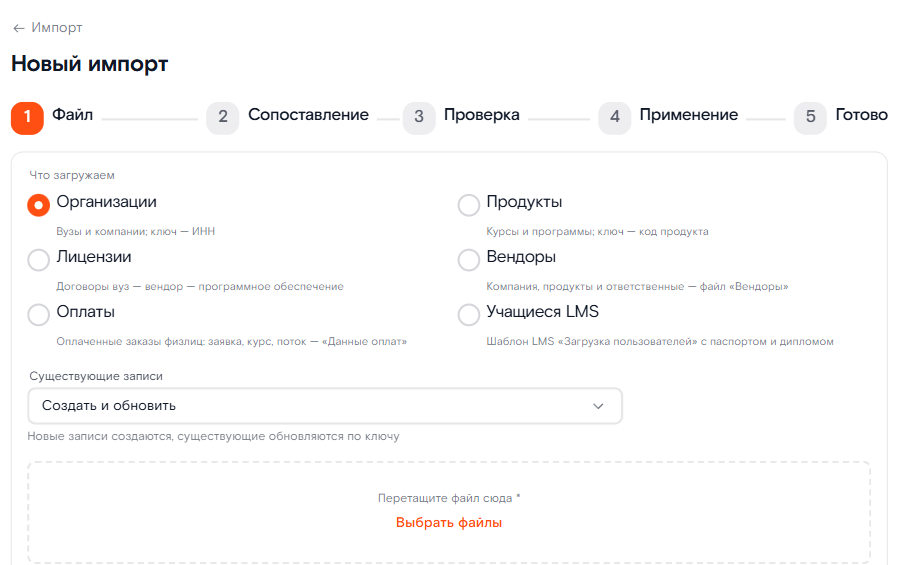
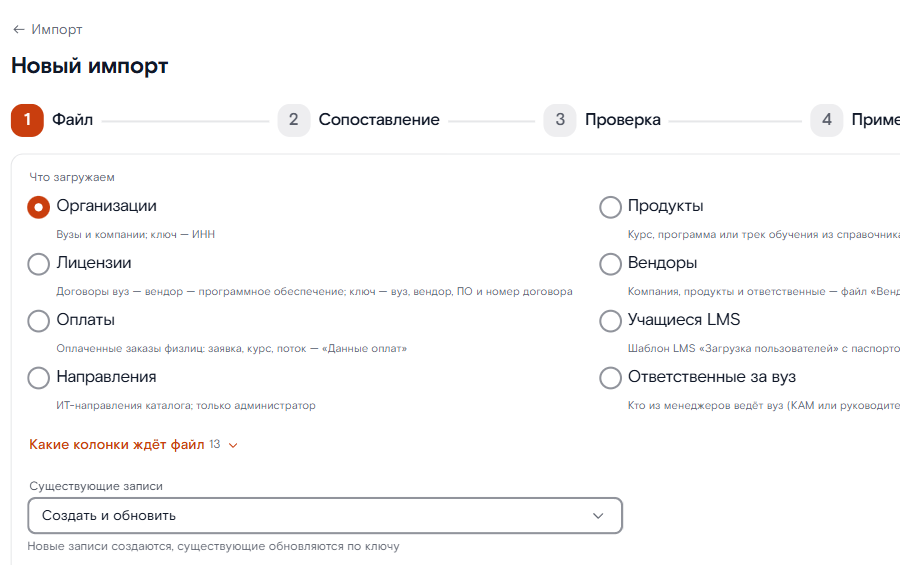
feat(F6): справка под main — интеграции F5 (забрать сейчас, поля заявки, маршрут, webhook-подписки, ключи API), приглашение с паролем на странице /invite, импорт (шаблоны xlsx/xls, сводка проверки, замечания строк), инциденты ПДн и состояние защиты в руководстве администратора, главы аудитора и адми

diff --git a/src/lib/content/help/10-integrations.md b/src/lib/content/help/10-integrations.md
@@ -1,19 +1,80 @@
 # Интеграции
 
-Раздел «Интеграции» (меню «Настройка», для администратора) показывает, с чем CRM обменивается данными и что именно ушло и пришло.
+Раздел «Интеграции» (меню «Настройка») показывает, с чем CRM обменивается данными, и позволяет настроить обмен без правки конфигурации сервера. Работать с ним может только администратор (право `integration:admin`); остальные при открытии страницы видят пояснение, что раздел доступен администратору. Наверху страницы вкладки: «Источники», «Подписки», «Ключи API», «Исходящие», «Входящие» и «Связи». Над ними всегда видно состояние системы: база данных, Redis, Keycloak, файловое хранилище и очередь задач; кнопка «Проверить сейчас» запрашивает состояние заново.
 
 ![Источники: Bitrix24, сайт и LMS с переключателем «Активен», сверху — состояние систем](/help/integrations-sources.png)
 
-**Источники.** Три карточки: Bitrix24, сайт (CMS) и LMS. Переключатель «Активен» включает источник, выключение спрашивает подтверждение. Плашки сверху — состояние базы, Redis, Keycloak, файлового хранилища и очереди задач. В настройках источника есть «паспорт»: адрес приёма, заголовки и пример запроса.
+## Источники
 
-**Сайт и LMS → CRM.** Заявки с сайта и прогресс обучения из LMS приходят по API в JSON: это публичные вебхуки, каждый запрос подписан секретом (HMAC). Секрет хранится только на сервере и в браузер не попадает, поэтому «тестовой отправки» с экрана нет. Принятое видно на вкладке «Входящие»: чей вызов, верна ли подпись, к какой записи привёл.
+Три карточки: Bitrix24, сайт (CMS) и LMS. В карточке:
 
-**CRM → Bitrix24.** Создание и смена статуса сделки записываются в очередь исходящих событий в той же транзакции, что и сама сделка, поэтому событие не пропадёт, даже если Битрикс24 недоступен. Фоновый воркер раз в минуту разбирает очередь и отправляет сделку на портал. При сбое отправка повторяется с нарастающей паузой (1 с, 5 с, 30 с, 5 мин, 30 мин, 2 ч); после восьми неудач событие получает статус «Не доставлено». Какой сделке CRM соответствует какая сделка Битрикс24, видно на вкладке «Связи»; если запись на портале изменили позже последней синхронизации, система замечает конфликт, а не затирает чужую правку.
+- переключатель «Активен» включает или выключает источник; выключение спрашивает подтверждение и объясняет, что перестанет работать;
+- адрес, тип авторизации и, у сайта и LMS, расписание забора: «каждые N мин» или «только вручную»;
+- «Входящие» — время последнего сообщения от источника; «Курсор» — до какого момента CRM уже прочитала данные источника (его можно скопировать);
+- плашка «Последний забор»: «Успешно», «Частично» или «Ошибка», время, как запущен (вручную или по расписанию) и счётчики «получено», «создано» (у LMS «применено»), «дубликатов», «пропущено», «с ошибкой». Если часть записей не принята, под плашкой подсказка: причины смотрите во «Входящих» со статусом «Ошибка»; последняя ошибка источника показана красной плашкой с кнопкой «Журнал».
 
-![Исходящие события: DEAL_CREATED в bitrix24 — «Отправлено»; события, пока источник был выключен, — «Не доставлено»](/help/integrations-outbox.png)
+Шестерёнка «Настроить источник» открывает окно настройки: название, адрес, авторизация, «Ссылка на секрет» (имя переменной окружения на сервере, сам секрет в базе не хранится), у сайта и LMS — «Забор по расписанию» (переключатель «Забирать автоматически» и «Раз в … минут», от 1 до 1440), блок «Подпись входящих запросов» (имя переменной секрета подписи и переключатель «Требовать метку времени X-Timestamp») и свёрнутый блок «Как подключить» с адресом вебхука, заголовками и готовым примером запроса `curl`. Самого секрета в окне нет.
+
+### Забрать сейчас
+
+Кнопка в карточке сайта и LMS ставит запрос на забор в очередь; воркер подхватывает его на ближайшем цикле (до минуты), после чего в карточке появляется итог. Пока забор идёт, кнопка называется «Забираем…», а плашка показывает «Идёт». Кнопка недоступна, если источник отключён, если запрос уже стоит в очереди (его мог поставить другой администратор) и у Bitrix24: он присылает события сам, забирать нечего. Если за две минуты итога нет, CRM сообщает, что забор ещё идёт, и итог появится в карточке, когда он завершится. Если сервер не принял запрос (например, он уже выполняется или поставлен слишком часто), причина показывается в уведомлении.
+
+### Поля заявки (сайт)
+
+У карточки сайта есть строка «Поля» и кнопка «Изменить»: какие ключи запроса сайта в какие поля CRM ложатся. Пока правил нет, работают встроенные названия (английские и русские). В окне «Поля заявки»:
+
+- «Что делать с остальными ключами запроса»: «Только перечисленные поля» или «Перечисленные и встроенные названия»;
+- правила: «Поле CRM» (в том числе «Своё поле сделки…»), «Ключ в запросе», «Преобразование» (как есть, убрать пробелы, нижний или верхний регистр, заменить значения, вставить в шаблон со словом `{value}`, склеить несколько полей, постоянное значение), «Если ключа нет или пусто» и переключатель «Обязательное: без значения заявка отклоняется». Правила можно двигать «Выше» и «Ниже»; два правила на одно поле работают по очереди;
+- «Пример запроса» и блок «Что получится»: сервер разбирает пример по текущим правилам и показывает, какие поля заполнятся, найден ли продукт и что было бы отклонено. Пример можно вставить типовой («Вставить типовой») или взять реальную заявку с сайта («Взять с сайта»; телефон и почта скрыты). Ничего при этом не создаётся и не сохраняется;
+- без правила для email или телефона сервер правила не сохранит: заявка без контакта отклоняется. «Вернуть встроенное» удаляет настроенные правила; если другой администратор сохранил поля раньше вас, CRM спросит, перезаписать ли его версию. Если источник включён, сохранение подтверждается: новые правила действуют сразу.
+
+### Куда попадают заявки (сайт)
+
+Строка «Заявки» и кнопка «Изменить» открывают окно «Куда попадают заявки». Без настройки заявка с сайта становится сделкой B2C в воронке по умолчанию. В окне:
+
+- «По умолчанию»: «Тип сделки» (B2C или B2B), «Воронка» (только опубликованные воронки этого типа), «Статус новой заявки» (если не выбран, начальный статус воронки) и «Кто ведёт заявку»: менеджер с наименьшей нагрузкой, ответственный за вуз или конкретный менеджер;
+- «Правила»: до десяти правил вида «если поле заявки равно (или одно из) значение, то заявка идёт по такому маршруту»; срабатывает первое подходящее. Так заявки вузов можно направить в B2B;
+- «Вернуть прежнее» удаляет маршрут и правила. Если выбранная воронка потом снята с публикации, в карточке появляется метка «Воронка недоступна», а заявки идут в воронку по умолчанию. Нужной воронки нет: создайте её в разделе «Воронки».
+
+### Сайт и LMS → CRM
+
+Заявки с сайта и прогресс обучения из LMS приходят по API в JSON: это публичные вебхуки, каждый запрос подписан секретом (HMAC-SHA256 по телу). Если включён «X-Timestamp», подписывается строка «метка.тело», допуск по времени 5 минут. Секрет хранится только на сервере, поэтому «тестовой отправки» с экрана нет: готовую команду для терминала даёт блок «Как подключить». Заявка с сайта создаёт сделку; прогресс LMS привязывается к существующей сделке, новых сделок по нему не создаётся. Принятое видно на вкладке «Входящие».
+
+### CRM → Bitrix24
+
+Создание и смена статуса сделки записываются в очередь исходящих событий в той же транзакции, что и сама сделка, поэтому событие не пропадёт, даже если Битрикс24 недоступен. Фоновый воркер раз в минуту разбирает очередь и отправляет сделку на портал. При сбое отправка повторяется с нарастающей паузой (1 с, 5 с, 30 с, 5 мин, 30 мин, 2 ч); после восьми неудач событие получает статус «Не доставлено». Какой сделке CRM соответствует какая сделка Битрикс24, видно на вкладке «Связи»; если запись на портале изменили позже последней синхронизации, система замечает конфликт, а не затирает чужую правку.
 
 **Как включить доставку.** Нужны четыре вещи: источник «Bitrix24» с включённым «Активен», адрес входящего вебхука портала в конфигурации сервера, включённый коннектор и флаг функции `bitrix_connector` в «Настройках». Секрет вебхука (он часть адреса) в базе не хранится: там только имя переменной окружения.
 
 **Проверено на живом портале.** 25.09.2026 сделка, созданная в CRM, появилась на портале компании, сработал и робот-уведомление в Битрикс24. Ход проверки со схемой, логами воркера и записями в базе — в README клиента, раздел «Интеграция с Битрикс24».
 
-**Чего нет.** Входящий поток Битрикс24 принимается по упрощённому контракту, а не по настоящим событиям портала. Событие «Не доставлено» администратор возвращает в очередь кнопкой «Повторить доставку» на вкладке «Исходящие». Telegram не подключён, а почта работает только при настроенном почтовом сервере (см. «Задачи, уведомления, профиль»).
+## Подписки на события (webhook)
+
+Вкладка «Подписки» отдаёт события CRM во внешнюю систему. Таблица: «Название», «Адрес», «События», «Неудач подряд» и переключатель «Активна»; если сервер сам выключил подписку, рядом метка «Выключена» с причиной в подсказке. Кнопка «Новая подписка» открывает окно:
+
+- «Название», «Адрес» (в боевом режиме только `https://`, внутренние адреса сервер отклоняет) и «События»: «Сделка создана», «Статус сделки изменён», «Документ подписан», «Зачисление в LMS отправлено», «Запрошен перевод на обучение»; нужно выбрать хотя бы одно;
+- свёрнутый блок «Фильтры по содержимому события»: JSON вида `{ "deal_type": "b2c" }`, не больше десяти полей. Подписка получит событие, только если поле равно значению; пусто означает любое событие из списка;
+- при создании CRM один раз показывает «Секрет подписи»: сохраните его и передайте принимающей системе, потом он недоступен. Потерянный секрет не восстановить: кнопка «Сменить секрет» выпускает новый, прежний перестаёт действовать сразу;
+- «Отправить тестовое событие» шлёт подписанное событие PING сразу и показывает код ответа и время; в журнал доставок оно не попадает;
+- «Журнал доставок» открывает панель со статусом («Ожидает», «Отправлено», «Ошибка, будет повтор», «Не доставлено»), числом попыток, временем и причиной ошибки по-русски; есть фильтр по статусу, а у неудачной доставки кнопка «Повторить доставку»;
+- блок «Как принять события» — заголовки, тело запроса и готовый код проверки подписи на Python и Node.js.
+
+Правила доставки: получатель должен ответить кодом 2xx быстрее чем за 10 секунд; повторы идут через 1 с, 5 с, 30 с, 5 мин, 30 мин и 2 ч, после восьми неудач событие получает статус «Не доставлено». Ответ 410 выключает подписку сразу, 20 недоставленных событий подряд тоже её выключают; включив подписку снова, вы сбрасываете счётчик неудач. Подпись считается по сырому телу запроса, в заголовках приходят `X-CRM-Delivery`, `X-Timestamp` и `X-Signature`. Одно событие может прийти дважды, поэтому принимающей системе стоит опираться на `X-CRM-Delivery`. «Удалить» убирает подписку вместе с очередью её доставок.
+
+## Ключи API
+
+Вкладка «Ключи API» выпускает ключи для внешних систем, которые вызывают CRM без входа через Keycloak. Система передаёт ключ в заголовке `X-API-Key` и действует с правами роли «Интеграция»: создавать сделки и контакты, переводить сделки по статусам, читать организации и принимать данные внешних систем. Таблица: «Название», «Учётка», «Начало ключа», «Использован», «Действует до» и «Состояние» («Действует», «Истёк», «Отозван»).
+
+«Выпустить ключ»: «Название» (например, «сайт»), «Служебная учётка» (активный пользователь с ролью «Интеграция»; если такого нет, окно предложит сначала создать его в разделе «Пользователи») и «Срок действия, дней» (по умолчанию 90, от 1 до 365). Ключ показывается один раз вместе с примером вызова; после кнопки «Я сохранил» виден только его начало. «Отозвать» (с подтверждением) прекращает действие ключа сразу, вернуть его нельзя: выпустите новый.
+
+## Журналы
+
+- **Исходящие.** События, которые CRM отправляет во внешние системы: событие, куда, статус, число попыток, время и причина ошибки. Фильтр по статусу; у неудачной доставки кнопка «Повторить доставку» возвращает её в очередь.
+- **Входящие.** Сообщения, которые внешние системы прислали в CRM: когда, источник, верна ли подпись, статус («Получено», «Обработано», «Ошибка», «Дубликат») и результат со ссылкой на созданную сделку или контакт. Журнал только для просмотра; есть фильтр по источнику.
+- **Связи.** Соответствие записей CRM (сделки, организации, контакты) записям во внешних системах: версия и время синхронизации. Создаются автоматически при обмене.
+
+![Исходящие события: DEAL_CREATED в bitrix24 — «Отправлено»; события, пока источник был выключен, — «Не доставлено»](/help/integrations-outbox.png)
+
+## Чего нет
+
+Входящий поток Битрикс24 принимается по упрощённому контракту, а не по настоящим событиям портала. Telegram не подключён, а почта работает только при настроенном почтовом сервере (см. «Задачи, уведомления, профиль»).

diff --git a/src/lib/content/help/21-role-admin.md b/src/lib/content/help/21-role-admin.md
@@ -4,13 +4,13 @@
 
 ## Что вы видите
 
-В боковом меню все разделы: «Главная», «Сделки», «Организации», «Лицензии», «Контакты», «Доступ к вузам», «Задачи», «Подписание», «Отчёты», «Импорт» и «Справка»; в разделе «Настройка» — «Воронки», «Справочники», «Интеграции», «Реестр ЕГРЮЛ», «Соглашения ЭДО» и «Шаблоны уведомлений»; в разделе «Администрирование» — «Пользователи», «Команды», «Согласования», «Удаление ПДн», «Журнал аудита» и «Настройки».
+В боковом меню все разделы: «Главная», «Сделки», «Организации», «Лицензии», «Контакты», «Доступ к вузам», «Задачи», «Подписание», «Отчёты», «Импорт» и «Справка»; в разделе «Настройка» — «Воронки», «Справочники», «Интеграции», «Реестр ЕГРЮЛ», «Соглашения ЭДО» и «Шаблоны уведомлений»; в разделе «Администрирование» — «Пользователи», «Команды», «Согласования», «Удаление ПДн», «Журнал аудита», «События безопасности», «Инциденты ПДн» и «Настройки».
 
 Область данных — все данные системы.
 
 ## Что вы можете и чего нет
 
-Можете всё, что руководитель, и сверх того: управлять пользователями, командами и настройками; публиковать воронки; вести справочники, соглашения об ЭДО, реестр ЕГРЮЛ, шаблоны уведомлений; подключать источники интеграций; обрабатывать запросы на удаление персональных данных; читать и выгружать журнал аудита.
+Можете всё, что руководитель, и сверх того: управлять пользователями, командами и настройками; публиковать воронки; вести справочники, соглашения об ЭДО, реестр ЕГРЮЛ, шаблоны уведомлений; подключать источники интеграций; обрабатывать запросы на удаление персональных данных; читать и выгружать журнал аудита; смотреть события безопасности и состояние защиты; вести инциденты с персональными данными и готовить уведомления Роскомнадзора.
 
 Ограничение «четырёх глаз»: создать администратора и выполнить запрос на удаление персональных данных можно только с подтверждением другого администратора (раздел «Согласования»). Один администратор подтвердить собственную заявку не может (код [`CRM-1902`](?s=errors#h-crm-1902)); поэтому администраторов должно быть минимум двое. Последнего администратора заблокировать или удалить нельзя (`CRM-1903`).
 
@@ -21,7 +21,9 @@
 1. Откройте «Пользователи» и нажмите «Новый сотрудник».
 2. Заполните «Фамилия и имя» и «Email», выберите «Роль». Для руководителя укажите «Команду»; блок «Команда», «Руководитель», «Должность» и переключатель «Требовать второй фактор (TOTP)» раскрывается ниже (для администратора и руководителя второй фактор включается всегда).
 3. Нажмите «Создать». Если создаёте администратора, заявка уйдёт на подтверждение второму администратору (раздел «Согласования»).
-4. В окне «Приглашение готово» скопируйте ссылку («Копировать ссылку») и передайте сотруднику. Если в Keycloak настроена почта, письмо уйдёт само. Повторно отправить приглашение можно в карточке пользователя кнопкой «Отправить приглашение повторно».
+4. В окне «Приглашение готово» видно, ушло ли письмо (чип «Письмо передано почтовому серверу» или «Письмо не отправлено»), и одноразовая ссылка с кнопкой «Копировать ссылку». Ссылка показывается один раз и действует до указанного в окне срока. Передайте её сотруднику, если письмо не ушло.
+5. Сотрудник открывает ссылку (страница «Вас пригласили в CRM»), видит своё имя, замаскированную почту и срок действия, задаёт пароль дважды и нажимает «Задать пароль». Затем «Войти» ведёт на обычный вход. Почта Keycloak для этого не нужна: пароль задаёт сама CRM.
+6. Если ссылка потерялась, истекла или уже использована, в карточке пользователя со статусом «Приглашён» нажмите «Выдать новую ссылку-приглашение». Сервер выдаёт её не чаще раза в 5 минут и не более 5 раз в сутки.
 
 Подробнее о почте и первом входе — руководство администратора, глава «Keycloak и пользователи».
 
@@ -31,7 +33,7 @@
 
 1. «Команды» → «Новая команда»: «Название», «Родительская команда», «Руководитель», «Регион». Иерархия команд определяет, какие сделки видит руководитель.
 2. В карточке пользователя нажмите «Изменить», чтобы поменять команду, руководителя, должность.
-3. Кнопка «Заблокировать» завершает все сессии сотрудника сразу, вход станет недоступен; «Разблокировать» возвращает доступ. «Сбросить пароль» завершает сессии и отправляет сотруднику ссылку на установку нового пароля (письмо уйдёт, если настроена почта Keycloak).
+3. Кнопка «Заблокировать» завершает все сессии сотрудника сразу, вход станет недоступен; «Разблокировать» возвращает доступ. «Сбросить пароль» завершает сессии и выдаёт сотруднику ссылку на установку нового пароля: если письмо не ушло, откроется окно «Ссылка для нового пароля» со ссылкой, которую нужно передать самому (она показывается один раз).
 4. Для увольнения нажмите «Передать дела и уволить»: мастер покажет, что держит сотрудник, и распределит сделки и вузы.
 
 ### 3. Опубликовать воронку
@@ -71,7 +73,16 @@
 2. Секретные значения показываются маской: чтобы изменить, введите «Новое значение секрета».
 3. Сохраните. Некоторые настройки требуют ключа шифрования на сервере (`SETTINGS_ENCRYPTION_KEY`, руководство администратора, глава «Переменные .env и секреты»).
 
-### 8. Перейти к эксплуатации сервера
+### 8. Проверить состояние защиты и провести инцидент ПДн
+
+1. Откройте «События безопасности» и вкладку «Состояние защиты»: панель показывает, включены ли второй фактор у администраторов и руководителей, режим входа по токену, проверка файлов антивирусом, подпись журнала аудита, шифрование персональных полей и четыре настройки Keycloak. Рядом с каждой мерой короткое пояснение, что делать; красным помечено «не включено или опасно», жёлтым «стоит усилить». В демо-режиме часть мер выключена намеренно.
+2. Если система или вы заподозрили утечку, откройте «Инциденты ПДн»: кандидатов заводит система по событиям безопасности, утечку можно завести и вручную кнопкой «Завести инцидент».
+3. Откройте карточку кандидата и нажмите «Подтвердить инцидент»: укажите, когда выявили, ответственного, затронутые данные и принятые меры. С этого момента идут сроки: 24 часа на уведомление Роскомнадзора и 72 часа на итоги расследования. Если утечки не было, нажмите «Отклонить кандидата».
+4. «Сформировать уведомление 24 часа» готовит текст и PDF, «Отметить подачу · 24 часа» записывает номер или ссылку подачи на портале (само уведомление подаёте вы на портале Роскомнадзора). Потом так же для 72 часов, затем «Закрыть инцидент».
+
+Подробнее — руководство администратора, глава [«Безопасность и аудит»](?s=admin-security#h-sostoyanie-zashchity).
+
+### 9. Перейти к эксплуатации сервера
 
 Установка, обновление, резервные копии, мониторинг и безопасность сервера описаны в разделе «Руководство администратора» этой справки: начните с главы [«Обзор и требования»](?s=admin-overview) и [«Чек-листа ввода в эксплуатацию»](?s=admin-checklist).
 

diff --git a/src/lib/content/help/05-import.md b/src/lib/content/help/05-import.md
@@ -1,10 +1,47 @@
 # Импорт
 
-Импорт загружает справочники и списки из файла: организации, продукты, лицензии, вендоров и другое. Раздел доступен руководителю и администратору.
-
-**Как идёт импорт.** Файл (.xlsx, .xls, .csv, до 50 МБ) проходит по шагам: загрузка → сопоставление колонок → пробный прогон с отчётом об ошибках → применение. Сопоставление можно сохранить пресетом, автоподбор колонок предлагает совпадения сам. Строки с ошибками пропускаются, весь импорт не падает; применённый импорт можно откатить.
+Импорт загружает справочники и списки из файла: организации, продукты, лицензии, вендоров, оплаты, учащихся LMS и другое. Раздел «Импорт» доступен руководителю и администратору. Список прошлых заданий показывает, что загружали, статус, число строк (без замечаний, с предупреждениями, с ошибками), кто и когда; кнопка «Новый импорт» запускает мастер.
 
 ![Первый шаг мастера: что загружаем, что делать с уже существующими записями, файл](/help/import-wizard.png)
+
+## Что можно загрузить
+
+| Тип | Что это | Как система узнаёт запись (на шаге сопоставления это написано в подсказке «Как система узнаёт запись») |
+| --- | --- | --- |
+| Организации | вузы и компании | по ИНН |
+| Продукты | курсы и ИТ-продукты | по коду продукта |
+| Лицензии | договоры вуз — вендор — программное обеспечение | по сочетанию: вуз (по точному названию), вендор, ПО и номер договора |
+| Вендоры | компания, продукты и ответственные | — |
+| Оплаты | оплаченные заказы физлиц: заявка, курс, поток (выгрузка «Данные оплат») | — |
+| Учащиеся LMS | шаблон LMS «Загрузка пользователей» | — |
+| Направления | ИТ-направления каталога; только администратор | по коду; если кода нет, он строится из названия |
+| Ответственные за вуз | какой менеджер (КАМ или руководитель) ведёт вуз; только администратор | вуз ищется по ИНН или названию, менеджер по почте или ФИО; меняется только тот, кто ведёт вуз, новые вузы не создаются |
+
+Руководителю типы «только администратор» показаны, но недоступны.
+
+## Мастер по шагам
+
+Шаги: «Файл» → «Сопоставление» → «Проверка» → «Применение» → «Готово».
+
+1. **Файл.** Выберите «Что загружаем», режим «Существующие записи» («Создать и обновить», «Только создать» или «Только обновить»; в последнем строки без существующей записи считаются ошибкой) и файл: Excel (.xlsx, .xls), CSV или JSON, до 50 МБ. Блок «Какие колонки ждёт файл» перечисляет колонки выбранного типа, отмечает «Обязательная» и подсказывает, как записать значение (например, даты ДД.ММ.ГГГГ или ГГГГ-ММ-ДД, ИНН из 10 или 12 цифр). Там же кнопки «Скачать шаблон .xlsx» и «Скачать шаблон .xls»: в шаблоне заголовки, две учебные строки (замените их своими данными) и лист «Инструкция» с допустимыми значениями; выпадающие списки есть только в .xlsx.
+2. **Сопоставление.** Для каждой колонки файла выберите «Поле системы» или оставьте «Не импортировать». Система подбирает колонки сама, можно применить пресет (встроенный или свой) и сохранить свой кнопкой «Сохранить как пресет». «Параметры чтения файла» раскрываются для книг Excel: «Лист» (скрытые помечены), «Загрузить все листы книги» (колонки на листах должны называться одинаково, предпросмотр идёт по первому листу), «Строка с названиями колонок» (если заголовки не в первой строке, мастер сам подсказывает, например «Взять строку 3»), «Заполнять пустые ячейки значением сверху» (для файлов, где вуз или вендор записан один раз на несколько строк, то есть в объединённых ячейках) и переключатели «Создавать вендоров, которых нет в справочнике», «Создавать программы (ПО)…», «Создавать вузы…» (иначе строка с неизвестным вузом получает ошибку). Пока не сопоставлены обязательные поля, кнопка «Далее» недоступна, а над таблицей сказано, чего не хватает. Если названия колонок в файле повторяются, мастер предупредит: значения берутся из последней такой колонки.
+3. **Проверка.** Пробный прогон ничего не записывает. Плитки сверху: «Без замечаний», «С предупреждениями», «С ошибками» и «Всего строк в файле». Ниже сводка: что будет создано, обновлено и пропущено («Будет создано: 3 лицензии»), и список «Что нашли в файле»: замечание, число строк и номера примеров. Кнопка «Показать» оставляет в таблице только строки с этим замечанием, «Показать все» возвращает полный список. «Отчёт об ошибках» выгружает файл с ошибочными строками.
+4. **Применение.** Кнопка «Применить N строк» запускается, только если есть что применять. Строки с ошибками пропускаются, остальные загружаются; страницу можно не закрывать, ход обновляется сам.
+5. **Готово.** Итог: «Загружено», «Из них с предупреждениями», «Пропущено», сводка «Создано / Обновлено / Пропущено» и замечания по файлу. «Отчёт .xlsx» выгружает результат по строкам; «Открыть: …» ведёт к загруженным записям (организации, контакты, сделки и так далее).
+
+Если закрыть мастер на середине, задание остаётся в списке, а на его странице кнопка «Продолжить» возвращает к нужному шагу.
+
+## Замечания по строкам
+
+В таблице «Строки файла» вкладки «Ошибки», «Предупреждения» и «Все». Колонки: «Строка» (номер как в Excel, для книг с несколькими листами с названием листа), «Статус», «Запись» и «Замечания». У каждого замечания есть пояснение, что делать: например, «Вуз ищется по точному названию в справочнике организаций. Проверьте написание или заведите организацию» (со ссылкой на «Организации»), допустимые значения статуса передачи, подписания и срока лицензии. Статусы строки: «Без замечаний», «Предупреждение» (применится, но прочитайте замечание), «Ошибка» (не применится, пока не исправите её в файле и не загрузите файл заново), «Пропущена», «Откачена», «Откат заблокирован» (к созданной записи уже привязаны другие данные, например сделка).
+
+## Статусы задания
+
+«Файл загружен», «Колонки сопоставлены», «Проверен», «Применяется», «Завершён», «Завершён с ошибками» (часть строк отклонена), «Откатывается», «Откачен», «Не удалось» (импорт остановился из-за ошибки; записи не изменены или откачены).
+
+## Откат
+
+Кнопка «Откатить импорт» (на последнем шаге или на странице задания) доступна для завершённого импорта, если сервер разрешает откат. Созданные записи будут удалены, изменённые возвращены к прежним значениям; записи, к которым уже привязаны другие данные (например, сделка), остаются, строка получает статус «Откат заблокирован».
 
 **Лицензии.** Тип импорта «Лицензии» описан в главе [«Лицензии вуз — вендор — ПО»](?s=licenses): какие колонки нужны и как записывать срок и подписание.
 

diff --git a/src/lib/content/help/admin/13-security.md b/src/lib/content/help/admin/13-security.md
@@ -32,12 +32,40 @@
 - **Файлы резервных копий** содержат персональные данные и хэши паролей: защищайте их так же, как рабочую базу.
 - **Меры по приказу ФСТЭК № 117 и 152-ФЗ** разобраны в репозитории бэкенда (`docs/security/measures-matrix.md`, организационные документы в `docs/security/org/`): это черновики, их должен утвердить юрист.
 
+## Состояние защиты
+
+Раздел «События безопасности» (меню «Администрирование», его видят администратор и аудитор) состоит из двух вкладок: «События» (журнал неудачных входов, блокировок, неверных подписей вебхуков, массовых выгрузок; фильтры, выгрузка NDJSON) и «Состояние защиты». Вторая вкладка собирает меры, которые документация обещает, а код проверяет по факту. Сверху фраза «Все меры включены» либо сколько мер требуют внимания; кнопка «Обновить» запрашивает данные заново (ответы Keycloak сервер кэширует на 60 секунд). Меры:
+
+| Мера | Что показывает панель |
+| --- | --- |
+| Второй фактор у администраторов и руководителей | Кто из них входит только по паролю (почта замаскирована, рядом ссылка на карточку сотрудника) |
+| Вход по токену без сессии (Bearer) | «Только служебная роль» или «Выключен» — норма; «Разрешён всем ролям» — удобно в демо, в боевом режиме опасно |
+| Проверка загружаемых файлов антивирусом | «Работает»; «Работает, режим «пропускать»» (при сбое антивируса файлы принимаются без проверки); «Сервис недоступен»; «Не включена» |
+| Подпись цепочки журнала аудита | «Ключ задан» или «Ключ не задан» (`AUDIT_HMAC_KEY`) |
+| Шифрование персональных полей | «Включено» или «Не включено» (`SETTINGS_ENCRYPTION_KEY`) |
+| Политика Keycloak | Защита от подбора пароля, ротация refresh-токенов, запись событий входа и обязательность HTTPS; если Keycloak не ответил, «Нет данных» |
+
+В демо-режиме над списком стоит пояснение, что часть мер выключена намеренно; в боевом режиме все строки должны быть зелёными.
+
+## Инциденты ПДн
+
+Раздел «Инциденты ПДн» (152-ФЗ) ведёт реестр утечек персональных данных и сроки уведомления Роскомнадзора (РКН): 24 часа на первое уведомление и 72 часа на итоги расследования. Видят реестр администратор и аудитор, менять может только администратор.
+
+1. **Кандидат.** Его заводит система по событию безопасности либо администратор вручную («Завести инцидент»: «Что случилось», «Серьёзность», «Описание», «Какие данные затронуты», примерное число субъектов). Сроки у кандидата не идут.
+2. **Подтверждение.** «Подтвердить инцидент» просит указать, когда выявили, ответственного, затронутые данные, причины, вред и принятые меры; после этого инцидент «Открыт», и сроки считаются от времени выявления. Ложный кандидат закрывается кнопкой «Отклонить кандидата» (статус «Отклонён»).
+3. **Уведомление РКН за 24 часа.** «Сформировать уведомление 24 часа» открывает текст по полям формы портала РКН (каждое поле копируется) и PDF. Шаблон — проект, его утверждает юрист оператора; контакт ответственного, если он не указан, задаётся тут же. Уведомление подаёт человек на портале РКН; «Отметить подачу · 24 часа» записывает номер или ссылку подачи и время (в будущем указать нельзя). Статус становится «РКН: 24 ч подано».
+4. **Итоги за 72 часа.** То же для «РКН: 72 ч подано»; «Итоги внутреннего расследования» заполняются в «Редактировать карточку».
+5. **Субъекты.** «Уведомление субъектам» готовит текст и файл; нужно ли уведомлять людей лично, решает юрист, отправку ведёт человек.
+6. **Закрытие.** «Закрыть инцидент» (причина по желанию); закрытый инцидент менять нельзя.
+
+В списке срок показывается как «Осталось …», «Просрочено на …» или «Отправлено»; когда осталось меньше 6 часов, он жёлтый. Если карточку изменил другой администратор, окно сообщит об этом и предложит обновить страницу.
+
 ## Шаги: что сделать перед боевым запуском
 
 1. Профиль `prod`, случайные секреты, демо-пользователи удалены, администраторов минимум двое (главы «Профили demo и prod», «Keycloak и пользователи»).
 2. Сохраните вне сервера `.env` вместе с `AUDIT_HMAC_KEY` и `SETTINGS_ENCRYPTION_KEY` (глава «Резервные копии и восстановление»).
 3. Проверьте, что `ADMIN_CONSOLE_ALLOW` не шире, чем нужно.
-4. Настройте почту (глава «Почта и SMTP»), иначе приглашения и сброс пароля не работают.
+4. Настройте почту (глава «Почта и SMTP»), иначе письма с приглашениями не уходят и ссылки придётся передавать вручную.
 5. Не включайте `GRAFANA_ANONYMOUS_VIEWER=true` на боевом стенде.
 
 ## Проверка цепочки аудита

diff --git a/src/lib/content/help/admin/06-keycloak.md b/src/lib/content/help/admin/06-keycloak.md
@@ -39,7 +39,7 @@ docker compose -p rtk-demo -f compose/docker-compose.yml --env-file /srv/rtk-dem
 
 ## Шаги: как заводят сотрудников
 
-**Обычный путь — через CRM.** Администратор открывает «Пользователи» (меню «Администрирование») и нажимает «Новый сотрудник». Поля: «Фамилия и имя», «Email», «Роль» (Менеджер по вузам, Руководитель, Администратор, Аудитор) и в раскрывающемся блоке «Команда» (обязательна для руководителя), «Руководитель», «Должность» и переключатель «Требовать второй фактор (TOTP)». Система создаёт учётку в Keycloak и в CRM, статус «Приглашён». Одноразовая ссылка действует 72 часа (значение по умолчанию). Если в Keycloak настроена почта, письмо уйдёт само; если нет, ссылку передаёт администратор (окно «Приглашение готово» со ссылкой и кнопкой «Копировать ссылку»).
+**Обычный путь — через CRM.** Администратор открывает «Пользователи» (меню «Администрирование») и нажимает «Новый сотрудник». Поля: «Фамилия и имя», «Email», «Роль» (Менеджер по вузам, Руководитель, Администратор, Аудитор) и в раскрывающемся блоке «Команда» (обязательна для руководителя), «Руководитель», «Должность» и переключатель «Требовать второй фактор (TOTP)». Система создаёт учётку в Keycloak и в CRM, статус «Приглашён». Одноразовая ссылка действует 72 часа (значение по умолчанию). Если в Keycloak настроена почта, письмо уйдёт само; если нет, окно «Приглашение готово» покажет «Письмо не отправлено» и ссылку с кнопкой «Копировать ссылку»: её передаёт администратор. Сотрудник открывает ссылку на странице CRM «Вас пригласили в CRM» и задаёт пароль сам (не короче 12 символов, с заглавной и строчной буквой и цифрой, без пробелов по краям, не совпадает с именем учётной записи), после чего входит обычным путём. Эта страница работает без почты Keycloak: пароль устанавливает сама CRM через Keycloak. Потерянную или просроченную ссылку выдают заново кнопкой «Выдать новую ссылку-приглашение» в карточке сотрудника (не чаще раза в 5 минут и не более 5 раз в сутки).
 
 Особые правила:
 
@@ -88,7 +88,7 @@ docker compose -p rtk-demo -f compose/docker-compose.yml --env-file /srv/rtk-dem
 
 - «Учётная запись не заведена в CRM» — у пользователя Keycloak нет роли `ADMIN`, `HEAD`, `KAM` или `AUDITOR`. Назначьте роль и войдите снова.
 - «Адрес электронной почты не подтверждён» — вы привязываете существующую запись CRM к пользователю Keycloak по почте; отметьте адрес подтверждённым.
-- Приглашённый сотрудник не может войти: без настроенной почты Keycloak приглашение само по себе не задаёт пароль. Настройте почту (глава «Почта и SMTP») либо задайте пароль в консоли.
+- Приглашённый сотрудник не может задать пароль: страница ссылки сообщает «Ссылка недействительна» — она истекла или уже использована (сервер отвечает одинаково), выдайте новую в карточке сотрудника; «Слишком много попыток» — подождите указанное время. Письмо при этом ни при чём: пароль задаётся на странице CRM, даже если почта Keycloak не настроена.
 - Остальное — в главе [«Неполадки»](?s=admin-troubleshooting).
 
 Сверено с репозиторием `deploy` (ветка main на 18.10.2026, релиз v0.5.3: RUNBOOK, `realm-crm.json`) и с кодом бэкенда (создание пользователей и вход). Команды этой главы на чистой машине не прогонялись.

diff --git a/src/lib/content/help/admin/07-smtp.md b/src/lib/content/help/admin/07-smtp.md
@@ -19,7 +19,7 @@
 | Ситуация | Что видит пользователь |
 | --- | --- |
 | Не задан `SMTP_HOST` | Письма приложения остаются в очереди и не отправляются. Уведомления «в приложении» работают всегда |
-| Почта Keycloak не настроена | Создание сотрудника в CRM работает, но письмо-приглашение не уходит: ссылку передаёт администратор. Вход по приглашению в закрытом контуре без почты Keycloak не работает: пароль приглашённому не задать. Сброс пароля с экрана входа тоже не доходит |
+| Почта Keycloak не настроена | Создание сотрудника в CRM работает, но письмо-приглашение не уходит: в окне «Приглашение готово» видно «Письмо не отправлено», ссылку передаёт администратор, а сотрудник сам задаёт по ней пароль на странице CRM. Так же работает «Сбросить пароль» в карточке сотрудника: без письма появляется ссылка для передачи. Сброс пароля с экрана входа без почты не доходит |
 | Код подписи должен уйти на почту, а `SMTP_HOST` не задан | Код на почту не уходит: подписант не сможет подтвердить подпись этим способом |
 
 ## Шаги: почта приложения
@@ -45,14 +45,14 @@
 
 ## Шаги: почта Keycloak
 
-В поставке в настройках области `crm` нет почтового сервера. Откройте консоль Keycloak (глава «Keycloak и пользователи»), область `crm`, настройки области, вкладку с почтой: задайте сервер, порт, адрес отправителя и, при необходимости, вход по логину и паролю. Там же можно проверить соединение тестовым письмом (названия пунктов могут отличаться в вашей версии консоли). Письмо-приглашение формируется Keycloak, поэтому от этой настройки зависит весь путь «создал сотрудника — сотрудник сам задал пароль».
+В поставке в настройках области `crm` нет почтового сервера. Откройте консоль Keycloak (глава «Keycloak и пользователи»), область `crm`, настройки области, вкладку с почтой: задайте сервер, порт, адрес отправителя и, при необходимости, вход по логину и паролю. Там же можно проверить соединение тестовым письмом (названия пунктов могут отличаться в вашей версии консоли). От этой настройки зависит только доставка письма-приглашения: без него ссылку из окна «Приглашение готово» передают вручную.
 
 <!-- SHOT: admin-keycloak-email.png — консоль Keycloak, настройки области, вкладка почты; admin-invite-link.png — окно «Приглашение готово» в CRM со ссылкой -->
 
 ## Как проверить
 
 - Почта приложения: отправьте ссылку на подписание внешнему подписанту (глава про подписание в руководстве пользователя) и убедитесь, что письмо пришло. Если письмо не ушло, оно остаётся в очереди: см. журнал `worker` (глава «Мониторинг и логи»).
-- Почта Keycloak: создайте тестового сотрудника в «Пользователи», проверьте, что письмо-приглашение пришло. Если письмо не пришло, в окне «Приглашение готово» ссылку можно скопировать вручную.
+- Почта Keycloak: создайте тестового сотрудника в «Пользователи», проверьте, что письмо-приглашение пришло. Если письмо не пришло, в окне «Приглашение готово» видно «Письмо не отправлено», а ссылку можно скопировать вручную.
 
 ## Что не работает в этой сборке
 

diff --git a/src/lib/content/help/22-role-auditor.md b/src/lib/content/help/22-role-auditor.md
@@ -4,13 +4,13 @@
 
 ## Что вы видите
 
-В боковом меню: «Справка», в разделе «Настройка» — «Соглашения ЭДО», в разделе «Администрирование» — «Журнал аудита». После входа вы сразу попадаете в журнал.
+В боковом меню: «Справка», в разделе «Настройка» — «Соглашения ЭДО», в разделе «Администрирование» — «Журнал аудита», «События безопасности» и «Инциденты ПДн». После входа вы сразу попадаете в журнал.
 
-Область данных — весь журнал аудита и соглашения об электронном документообороте. Сделки, организации и контакты скрыты.
+Область данных — весь журнал аудита, события безопасности, реестр инцидентов с персональными данными и соглашения об электронном документообороте. Сделки, организации и контакты скрыты.
 
 ## Что вы можете и чего нет
 
-Можете: читать весь журнал и открывать подробности записей; фильтровать его; проверять целостность цепочки записей; выгружать журнал в файл; просматривать соглашения об ЭДО (только чтение).
+Можете: читать весь журнал и открывать подробности записей; фильтровать его; проверять целостность цепочки записей; выгружать журнал в файл; просматривать соглашения об ЭДО (только чтение); читать события безопасности и вкладку «Состояние защиты»; читать реестр инцидентов ПДн и карточки инцидентов (создавать, подтверждать и закрывать инциденты, формировать уведомления может только администратор).
 
 Нельзя: менять что-либо в системе, открывать сделки и контакты, строить отчёты, управлять пользователями. На запрещённое действие система отвечает «Недостаточно прав для этого действия» (код [`CRM-1102`](?s=errors#h-crm-1102)).
 
@@ -48,6 +48,17 @@
 2. Нажмите «Выгрузить NDJSON» и подтвердите. В файл попадёт до 10 000 записей (одна запись на строку), а в сам журнал запишется событие «Массовая выгрузка».
 
 Подробнее — глава [«Журнал аудита»](?s=audit).
+
+### 6. Посмотреть события безопасности и состояние защиты
+
+1. Откройте «События безопасности»: сверху число критичных событий, неверных подписей вебхуков и блокировок за 24 часа, ниже журнал с фильтрами «Событие», «Серьёзность», «Период», «Сотрудник» и «IP-адрес или сеть». Строка открывает подробности и подсказку, что событие значит.
+2. Вкладка «Состояние защиты» показывает, включены ли основные меры защиты (второй фактор, антивирус, подпись журнала, шифрование, политика Keycloak).
+3. «Выгрузить NDJSON» выгружает до 10 000 событий; в журнал записывается событие «Массовая выгрузка».
+
+### 7. Посмотреть инциденты ПДн
+
+1. Откройте «Инциденты ПДн»: вкладки «Все», «Кандидаты», «В работе», «Закрытые»; для каждого инцидента видны номер, статус, серьёзность, срок уведомления Роскомнадзора и время выявления.
+2. В карточке видны шаги от кандидата до закрытия, сроки 24 и 72 часа, данные инцидента и номер подачи уведомления. Кнопок действий у вас нет: страница показывает «Просмотр».
 
 ## Куда смотреть дальше
 

diff --git a/src/lib/content/help/06-admin.md b/src/lib/content/help/06-admin.md
@@ -1,6 +1,6 @@
 # Администрирование
 
-**Пользователи и команды.** Учётная запись создаётся администратором; сотрудник получает приглашение. Блокировка немедленно завершает все сессии, сделки остаются за сотрудником и помечаются для руководителя. При увольнении работает мастер передачи дел из трёх шагов: сводка того, что держит сотрудник (сделки, вузы, задачи, запросы подписи); преемник по умолчанию, причина и, при желании, распределение по вузам и отдельным сделкам; подтверждение с отметкой «Понимаю, что действие необратимо». Команды — иерархия («кто чей руководитель»): на ней строится, какие сделки видит HEAD.
+**Пользователи и команды.** Учётная запись создаётся администратором; сотрудник получает приглашение: одноразовую ссылку, по которой сам задаёт пароль на странице CRM (почта Keycloak для этого не требуется), а потерянную ссылку администратор выдаёт заново кнопкой «Выдать новую ссылку-приглашение». Блокировка немедленно завершает все сессии, сделки остаются за сотрудником и помечаются для руководителя. При увольнении работает мастер передачи дел из трёх шагов: сводка того, что держит сотрудник (сделки, вузы, задачи, запросы подписи); преемник по умолчанию, причина и, при желании, распределение по вузам и отдельным сделкам; подтверждение с отметкой «Понимаю, что действие необратимо». Команды — иерархия («кто чей руководитель»): на ней строится, какие сделки видит HEAD.
 
 ![Список команд: название, руководитель, регион](/help/teams.png)
 

diff --git a/src/lib/content/help/admin/14-troubleshooting.md b/src/lib/content/help/admin/14-troubleshooting.md
@@ -29,7 +29,7 @@
 | При входе на новом адресе `invalid_redirect_uri` | Адрес менялся без `scripts/set_host.sh`: выполните его (глава «TLS и домен») |
 | Вход не работает после смены секретов | Секреты меняли только в `.env`. Верните прежние значения из копии; процедуры ротации в поставке нет (глава «Переменные .env и секреты») |
 | Пароль администратора консоли Keycloak из `.env` не подходит | Он читается только при первом старте; порядок восстановления — в главе «Keycloak и пользователи» |
-| Приглашённый сотрудник не может задать пароль и войти | Не настроена почта Keycloak: приглашение без неё пароль не задаёт (глава «Почта и SMTP») |
+| Приглашённый сотрудник не может задать пароль и войти | Ссылка истекла или уже использована («Ссылка недействительна»): выдайте новую в карточке сотрудника. Почта Keycloak для задания пароля не нужна (главы «Keycloak и пользователи», «Почта и SMTP») |
 | Письма (приглашения, ссылки на подписание, уведомления) не приходят | Без `SMTP_HOST` письма приложения остаются в очереди; Keycloak шлёт свою почту отдельно (глава «Почта и SMTP») |
 | «Учётная запись не заведена в CRM» | У пользователя Keycloak нет роли CRM: назначьте роль (глава «Keycloak и пользователи») |
 | Предупреждение браузера о сертификате | Ожидаемо для самоподписанного сертификата (режимы `internal` и `off`): установите корневой сертификат Caddy (глава «TLS и домен») |
